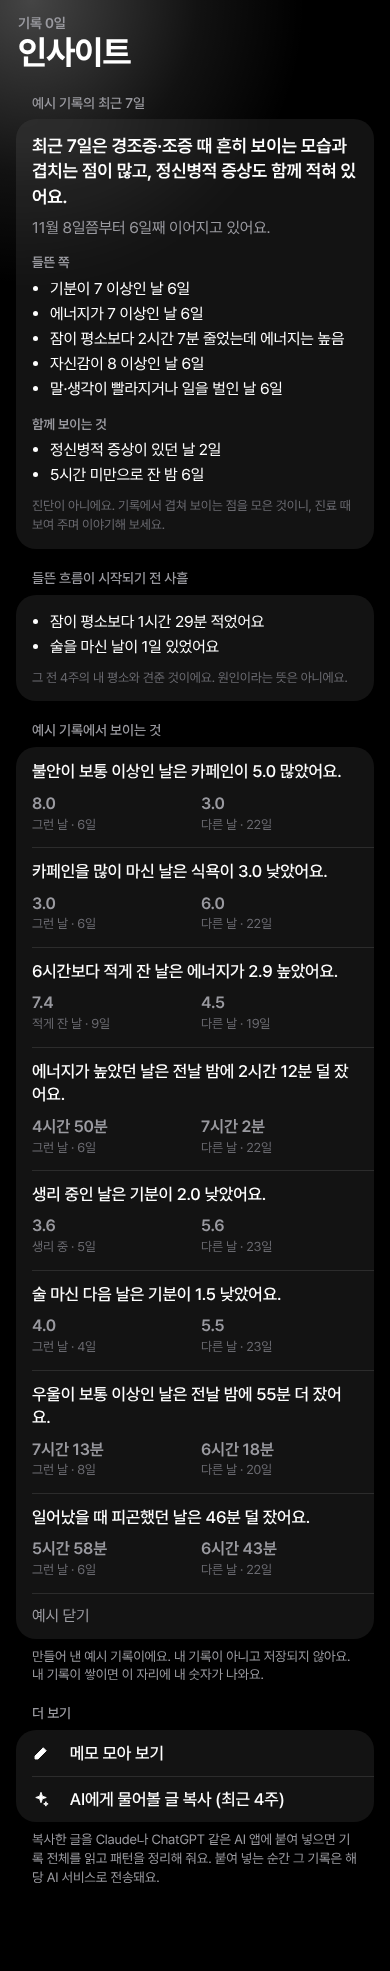
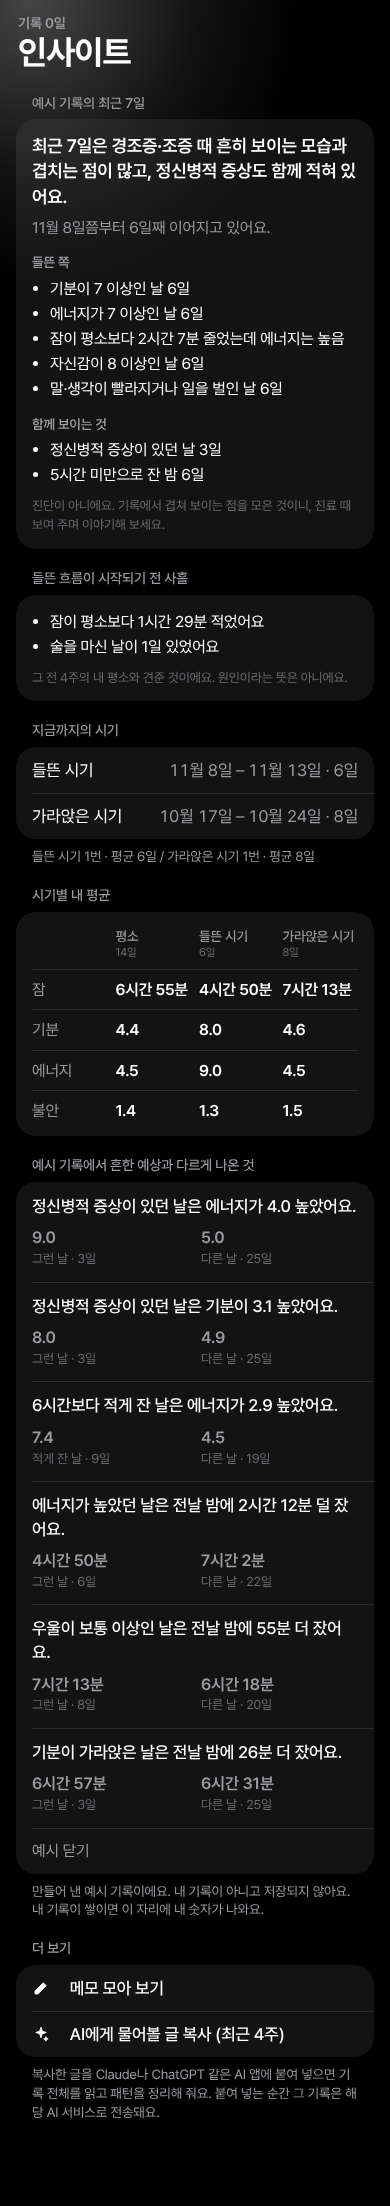
Tide: insights drop generic findings in favour of the person's own history
Comparisons that only restate what is true for most people (more caffeine, less sleep) were presented as findings. Each comparison now carries the commonly expected direction and is shown only when the log goes the other way, or when there is no common expectation. New personal sections: the elevated and low stretches so far with dates and length, the person's own averages in usual, elevated and low phases, and the two weeks before and after each recorded medication change.

Claude-Session: https://claude.ai/code/session_01Du4KAy7crrN67i73oW7iBF

diff --git a/mood/js/analysis.js b/mood/js/analysis.js
@@ -128,7 +128,53 @@ export function recentState(entries = db.entries) {
   return { kind, title, flow, groups, lead };
 }
 
+// ---------- 내 시기들 · 시기별 내 평균 · 약을 바꾼 앞뒤 ----------
+// 지금까지의 들뜬 시기와 가라앉은 시기 (최근 것부터), 그리고 몇 번이었고 평균 며칠 갔는지
+export function episodes(entries = db.entries) {
+  const list = [...runs(entries, upDay).map((r) => ({ ...r, kind: 'high' })), ...runs(entries, downDay).map((r) => ({ ...r, kind: 'low' }))]
+    .map((r) => ({ ...r, days: dayGap(r.start, r.end) + 1 })).sort((a, b) => (a.start < b.start ? 1 : -1));
+  const stat = (kind) => { const l = list.filter((r) => r.kind === kind); return l.length ? { n: l.length, avg: Math.round(avg(l.map((r) => r.days))) } : null; };
+  return { list, high: stat('high'), low: stat('low') };
+}
+
+// 평소 / 들뜬 시기 / 가라앉은 시기에 내 잠·기분·에너지·불안이 각각 어땠는지.
+// { cols: [[이름, 날 수], …], rows: [[항목, [값, …]], …] }. 견줄 묶음이 둘 이상(각 3일 이상)일 때만 나온다.
+export function baseline(entries = db.entries) {
+  const ep = episodes(entries).list, inRun = (e, kind) => ep.some((r) => r.kind === kind && e.date >= r.start && e.date <= r.end);
+  const all = Object.keys(entries).sort().map((k) => entries[k]);
+  const groups = [[T('평소'), all.filter((e) => !inRun(e, 'high') && !inRun(e, 'low'))], [T('들뜬 시기'), all.filter((e) => inRun(e, 'high'))], [T('가라앉은 시기'), all.filter((e) => inRun(e, 'low'))]]
+    .filter(([, list]) => list.length >= 3);
+  if (groups.length < 2) return null;
+  const cell = (list, key, fmt) => { const v = list.map((e) => e[key]).filter((x) => x != null); return v.length ? fmt(avg(v)) : '–'; };
+  const dur = (m) => durText(Math.round(m)), num = (x) => x.toFixed(1);
+  return {
+    cols: groups.map(([name, list]) => [name, list.length]),
+    rows: [[T('잠'), 'sleepMin', dur], [T('기분'), 'mood', num], [T('에너지'), 'energy', num], [T('불안'), 'anx', num]].map(([name, key, fmt]) => [name, groups.map(([, list]) => cell(list, key, fmt))]),
+  };
+}
+
+// 약을 바꾼 날(진료 화면에 적어 둔 것)의 앞 2주와 뒤 2주. 앞뒤로 각각 4일 이상 적었을 때만 나온다. (최근 것부터)
+// [{ date, text, after: 뒤쪽에 적은 날 수, rows: [[항목, 앞, 뒤], …] }]
+export function medChanges() {
+  const t = today(), log = (db.clinic && db.clinic.log) || [];
+  const pick = (from, to) => Object.keys(db.entries).filter((k) => k >= from && k <= to).map((k) => db.entries[k]);
+  const dur = (m) => durText(Math.round(m)), num = (x) => x.toFixed(1);
+  const cell = (list, key, fmt) => { const v = list.map((e) => e[key]).filter((x) => x != null); return v.length ? fmt(avg(v)) : '–'; };
+  const count = (list, test) => F('{0}일 중 {1}일', list.length, list.filter(test).length);
+  return log.filter((x) => x.kind === 'med' && x.date <= t).map((x) => {
+    const b = pick(addDays(x.date, -14), addDays(x.date, -1)), last = addDays(x.date, 13), a = pick(x.date, last < t ? last : t);
+    if (b.length < 4 || a.length < 4) return null;
+    return {
+      date: x.date, text: x.text, after: a.length,
+      rows: [[T('기분'), cell(b, 'mood', num), cell(a, 'mood', num)], [T('에너지'), cell(b, 'energy', num), cell(a, 'energy', num)], [T('잠'), cell(b, 'sleepMin', dur), cell(a, 'sleepMin', dur)],
+        [T('우울이 보통 이상'), count(b, (e) => e.dep >= 2), count(a, (e) => e.dep >= 2)], [T('불안이 보통 이상'), count(b, (e) => e.anx >= 2), count(a, (e) => e.anx >= 2)]],
+    };
+  }).filter(Boolean).reverse();
+}
+
 // 인사이트: 두 묶음의 평균을 견준 관찰들. 차이가 큰 것부터 나온다.
+// 누구에게나 흔한 쪽으로 나온 것(카페인을 많이 마시면 덜 잔다 등)은 새로운 정보가 아니라서 뺀다:
+// say의 세 번째 값이 "흔히 예상되는 쪽"(0 = 앞 문장, 1 = 뒤 문장)이고, 기록이 그 반대로 나왔을 때만 넣는다. 예상이 따로 없는 것은 그대로 넣는다.
 //   { text: 한 줄 결론, a: [이름, 값, 날 수], b: [이름, 값, 날 수] }
 // 차이가 뚜렷할 때만 넣는다. entries를 주면 그 기록으로 계산한다 (예시 기록 미리 보기).
 // 약에 관한 비교는 내 약 기록을 보기 때문에 내 기록일 때만 넣는다.
@@ -142,7 +188,7 @@ export function insights(entries = db.entries) {
   const compare = (key, a, b, labels, { min = 3, gap, fmt, unit }, say) => {
     if (a.length < min || b.length < min) return;
     const x = mean(a, key), y = mean(b, key), d = Math.abs(x - y);
-    if (d < gap) return;
+    if (d < gap || say[2] === (x < y ? 0 : 1)) return;
     out.push({ text: F(say[x < y ? 0 : 1], fmt(d)), a: [labels[0], fmt(x), a.length], b: [labels[1], fmt(y), b.length], weight: d / unit });
   };
   const sleep = { gap: 20, fmt: dur, unit: 60 }, score = { gap: 0.8, fmt: num, unit: 1 }, days = [T('그런 날'), T('다른 날')];
@@ -153,36 +199,36 @@ export function insights(entries = db.entries) {
 
   // 잠과 에너지·기분
   compare('energy', slE.filter((e) => e.sleepMin < 360), slE.filter((e) => e.sleepMin >= 360), [T('적게 잔 날'), T('다른 날')], score,
-    ['6시간보다 적게 잔 날은 에너지가 {0} 낮았어요.', '6시간보다 적게 잔 날은 에너지가 {0} 높았어요.']);
+    ['6시간보다 적게 잔 날은 에너지가 {0} 낮았어요.', '6시간보다 적게 잔 날은 에너지가 {0} 높았어요.', 0]);
   compare('sleepMin', slE.filter((e) => e.energy >= 7), slE.filter((e) => e.energy < 7), days, sleep,
-    ['에너지가 높았던 날은 전날 밤에 {0} 덜 잤어요.', '에너지가 높았던 날은 전날 밤에 {0} 더 잤어요.']);
+    ['에너지가 높았던 날은 전날 밤에 {0} 덜 잤어요.', '에너지가 높았던 날은 전날 밤에 {0} 더 잤어요.', 1]);
   compare('sleepMin', slM.filter((e) => e.mood <= 3), slM.filter((e) => e.mood > 3), days, sleep,
-    ['기분이 가라앉은 날은 전날 밤에 {0} 덜 잤어요.', '기분이 가라앉은 날은 전날 밤에 {0} 더 잤어요.']);
+    ['기분이 가라앉은 날은 전날 밤에 {0} 덜 잤어요.', '기분이 가라앉은 날은 전날 밤에 {0} 더 잤어요.', 0]);
   compare('sleepMin', sl.filter((e) => e.tired), sl.filter((e) => !e.tired), days, sleep,
-    ['일어났을 때 피곤했던 날은 {0} 덜 잤어요.', '일어났을 때 피곤했던 날은 {0} 더 잤어요.']);
+    ['일어났을 때 피곤했던 날은 {0} 덜 잤어요.', '일어났을 때 피곤했던 날은 {0} 더 잤어요.', 0]);
   // 약
   if (mine && db.meds.length) {
     compare('mood', withMood.filter((e) => !medsFor(e.date).length), withMood.filter((e) => medsFor(e.date).length), [T('안 먹은 날'), T('먹은 날')], score,
-      ['약을 안 먹은 날은 기분이 {0} 낮았어요.', '약을 안 먹은 날은 기분이 {0} 높았어요.']);
+      ['약을 안 먹은 날은 기분이 {0} 낮았어요.', '약을 안 먹은 날은 기분이 {0} 높았어요.', 0]);
     compare('sleepMin', sl.filter(aided), sl.filter((e) => !aided(e)), [T('먹은 날'), T('안 먹은 날')], { ...sleep, min: 2 },
-      ['안정제·수면제를 먹은 날 밤에는 {0} 덜 잤어요.', '안정제·수면제를 먹은 날 밤에는 {0} 더 잤어요.']);
+      ['안정제·수면제를 먹은 날 밤에는 {0} 덜 잤어요.', '안정제·수면제를 먹은 날 밤에는 {0} 더 잤어요.', 1]);
   }
   // 카페인 · 술 · 운동 · 생리
   const caf = all.filter((e) => e.caffeine != null && night(e) && night(e).sleepMin != null);
   compare('sleepMin', caf.filter((e) => e.caffeine >= 7).map(night), caf.filter((e) => e.caffeine < 7).map(night), days, sleep,
-    ['카페인을 많이 마신 날 밤에는 {0} 덜 잤어요.', '카페인을 많이 마신 날 밤에는 {0} 더 잤어요.']);
+    ['카페인을 많이 마신 날 밤에는 {0} 덜 잤어요.', '카페인을 많이 마신 날 밤에는 {0} 더 잤어요.', 0]);
   const ap = all.filter((e) => e.caffeine != null && e.appetite != null);
   compare('appetite', ap.filter((e) => e.caffeine >= 7), ap.filter((e) => e.caffeine < 7), days, { ...score, gap: 1 },
-    ['카페인을 많이 마신 날은 식욕이 {0} 낮았어요.', '카페인을 많이 마신 날은 식욕이 {0} 높았어요.']);
+    ['카페인을 많이 마신 날은 식욕이 {0} 낮았어요.', '카페인을 많이 마신 날은 식욕이 {0} 높았어요.', 0]);
   const tagged = (k) => (e) => !!(e.tags && e.tags[k]);
   const nextMood = all.filter((e) => night(e) && night(e).mood != null);
   compare('mood', nextMood.filter(tagged('alcohol')).map(night), nextMood.filter((e) => !tagged('alcohol')(e)).map(night), days, score,
-    ['술 마신 다음 날은 기분이 {0} 낮았어요.', '술 마신 다음 날은 기분이 {0} 높았어요.']);
+    ['술 마신 다음 날은 기분이 {0} 낮았어요.', '술 마신 다음 날은 기분이 {0} 높았어요.', 0]);
   const nextSleep = all.filter((e) => night(e) && night(e).sleepMin != null);
   compare('sleepMin', nextSleep.filter(tagged('exercise')).map(night), nextSleep.filter((e) => !tagged('exercise')(e)).map(night), days, sleep,
-    ['운동한 날 밤에는 {0} 덜 잤어요.', '운동한 날 밤에는 {0} 더 잤어요.']);
+    ['운동한 날 밤에는 {0} 덜 잤어요.', '운동한 날 밤에는 {0} 더 잤어요.', 1]);
   compare('mood', withMood.filter((e) => e.period), withMood.filter((e) => !e.period), [T('생리 중'), T('다른 날')], score,
-    ['생리 중인 날은 기분이 {0} 낮았어요.', '생리 중인 날은 기분이 {0} 높았어요.']);
+    ['생리 중인 날은 기분이 {0} 낮았어요.', '생리 중인 날은 기분이 {0} 높았어요.', 0]);
   // 기분이 가장 낮은 요일 (요일마다 2일 이상 적었을 때)
   const byDay = WD().map((name, d) => [name, withMood.filter((e) => parse(e.date).getDay() === d)]).filter(([, list]) => list.length >= 2);
   if (byDay.length >= 4) {
@@ -195,15 +241,15 @@ export function insights(entries = db.entries) {
   const split = (list, test) => [list.filter(test), list.filter((e) => !test(e))];
   const isDep = (e) => e.dep >= 2, isAnx = (e) => e.anx >= 2, isPsy = (e) => e.psy >= 1, isSi = (e) => e.si >= 1;
   compare('sleepMin', ...split(sl.filter(has('dep')), isDep), days, sleep, ['우울이 보통 이상인 날은 전날 밤에 {0} 덜 잤어요.', '우울이 보통 이상인 날은 전날 밤에 {0} 더 잤어요.']);
-  compare('sleepMin', ...split(sl.filter(has('anx')), isAnx), days, sleep, ['불안이 보통 이상인 날은 전날 밤에 {0} 덜 잤어요.', '불안이 보통 이상인 날은 전날 밤에 {0} 더 잤어요.']);
-  compare('sleepMin', ...split(sl, isPsy), days, sleep, ['정신병적 증상이 있던 날은 전날 밤에 {0} 덜 잤어요.', '정신병적 증상이 있던 날은 전날 밤에 {0} 더 잤어요.']);
-  compare('sleepMin', ...split(sl.filter(has('si')), isSi), days, sleep, ['죽고 싶은 생각이 있던 날은 전날 밤에 {0} 덜 잤어요.', '죽고 싶은 생각이 있던 날은 전날 밤에 {0} 더 잤어요.']);
+  compare('sleepMin', ...split(sl.filter(has('anx')), isAnx), days, sleep, ['불안이 보통 이상인 날은 전날 밤에 {0} 덜 잤어요.', '불안이 보통 이상인 날은 전날 밤에 {0} 더 잤어요.', 0]);
+  compare('sleepMin', ...split(sl, isPsy), days, sleep, ['정신병적 증상이 있던 날은 전날 밤에 {0} 덜 잤어요.', '정신병적 증상이 있던 날은 전날 밤에 {0} 더 잤어요.', 0]);
+  compare('sleepMin', ...split(sl.filter(has('si')), isSi), days, sleep, ['죽고 싶은 생각이 있던 날은 전날 밤에 {0} 덜 잤어요.', '죽고 싶은 생각이 있던 날은 전날 밤에 {0} 더 잤어요.', 0]);
   const both = (a, b) => all.filter((e) => e[a] != null && e[b] != null);
   compare('energy', ...split(all.filter(has('energy')), isPsy), days, score, ['정신병적 증상이 있던 날은 에너지가 {0} 낮았어요.', '정신병적 증상이 있던 날은 에너지가 {0} 높았어요.']);
   compare('mood', ...split(withMood, isPsy), days, score, ['정신병적 증상이 있던 날은 기분이 {0} 낮았어요.', '정신병적 증상이 있던 날은 기분이 {0} 높았어요.']);
-  compare('dep', ...split(both('anx', 'dep'), isAnx), days, level, ['불안이 보통 이상인 날은 우울이 {0}단계 낮았어요.', '불안이 보통 이상인 날은 우울이 {0}단계 높았어요.']);
-  compare('anx', ...split(all.filter(has('anx')), isPsy), days, level, ['정신병적 증상이 있던 날은 불안이 {0}단계 낮았어요.', '정신병적 증상이 있던 날은 불안이 {0}단계 높았어요.']);
-  compare('caffeine', ...split(both('anx', 'caffeine'), isAnx), days, { ...score, gap: 1 }, ['불안이 보통 이상인 날은 카페인이 {0} 적었어요.', '불안이 보통 이상인 날은 카페인이 {0} 많았어요.']);
+  compare('dep', ...split(both('anx', 'dep'), isAnx), days, level, ['불안이 보통 이상인 날은 우울이 {0}단계 낮았어요.', '불안이 보통 이상인 날은 우울이 {0}단계 높았어요.', 1]);
+  compare('anx', ...split(all.filter(has('anx')), isPsy), days, level, ['정신병적 증상이 있던 날은 불안이 {0}단계 낮았어요.', '정신병적 증상이 있던 날은 불안이 {0}단계 높았어요.', 1]);
+  compare('caffeine', ...split(both('anx', 'caffeine'), isAnx), days, { ...score, gap: 1 }, ['불안이 보통 이상인 날은 카페인이 {0} 적었어요.', '불안이 보통 이상인 날은 카페인이 {0} 많았어요.', 1]);
   // 차이가 큰 것부터 여덟 개까지만 (많으면 다 비슷해 보인다)
   return out.sort((p, q) => q.weight - p.weight).slice(0, 8);
 }

diff --git a/mood/js/views/insight.js b/mood/js/views/insight.js
@@ -1,7 +1,9 @@
-// 인사이트 화면: 최근 7일을 종합해서 읽은 것, 그 흐름이 시작되기 전 사흘, 기록에서 보이는 비교, 메모·AI로 가는 줄
+// 인사이트 화면: 최근 7일을 종합해서 읽은 것, 그 흐름이 시작되기 전 사흘, 내 시기들, 시기별 내 평균, 약을 바꾼 앞뒤,
+// 흔한 예상과 다르게 나온 비교, 메모·AI로 가는 줄. 누구에게나 해당하는 뻔한 말은 넣지 않는다 (사용자가 지적, 2026-11-13).
 // 기록이 아직 적으면 예시 기록으로 어떤 것이 나오는지 미리 볼 수 있다 (ui.insightDemo).
-import { INSIGHT_MIN_DAYS, insights, recentState } from '../analysis.js';
-import { app } from '../dom.js';
+import { INSIGHT_MIN_DAYS, baseline, episodes, insights, medChanges, recentState } from '../analysis.js';
+import { md, parse } from '../dates.js';
+import { app, esc } from '../dom.js';
 import { F, T } from '../i18n.js';
 import { IC } from '../icons.js';
 import { sampleEntries } from '../sample.js';
@@ -17,7 +19,11 @@ const bullets = (list) => (list.length ? `<ul>${list.map((x) => `<li>${x}</li>`)
 export function viewInsight() {
   const n = Object.keys(db.entries).length, mine = insights();
   const demo = ui.insightDemo && !mine.length, list = demo ? insights(sampleEntries()) : mine;
-  const state = demo ? recentState(sampleEntries()) : recentState();
+  const src = demo ? sampleEntries() : db.entries, state = recentState(src), ep = episodes(src), base = baseline(src), changes = demo ? [] : medChanges();
+  const span = (r) => `${md(parse(r.start))} – ${md(parse(r.end))}`;
+  const epStat = [ep.high && F('들뜬 시기 {0}번 · 평균 {1}일', ep.high.n, ep.high.avg), ep.low && F('가라앉은 시기 {0}번 · 평균 {1}일', ep.low.n, ep.low.avg)].filter(Boolean).join(' / ');
+  // 표 한 줄: 첫 칸은 이름, 나머지는 값
+  const tr = (cells, head) => `<div class="tr${head ? ' th' : ''}">${cells.map((c) => `<span>${c}</span>`).join('')}</div>`;
   const empty = `<div class="li say mut">${n < INSIGHT_MIN_DAYS ? F('기록이 {0}일 이상 쌓이면 패턴을 찾아 보여 드려요. 지금은 {1}일이에요.', INSIGHT_MIN_DAYS, n) : T('아직 뚜렷한 패턴이 보이지 않아요. 기록이 더 쌓이면 다시 살펴볼게요.')}</div>
     <button class="li add" data-act="insightDemo">${IC.spark}&nbsp; ${T('예시로 미리 보기')}</button>`;
   app.innerHTML = `
@@ -30,11 +36,19 @@ export function viewInsight() {
     ${state.lead ? `<div class="sec">${state.lead.title}</div>
     <section class="card state">${bullets(state.lead.points)}${state.lead.past ? `<div class="flow">${state.lead.past}</div>` : ''}
       <p>${T('그 전 4주의 내 평소와 견준 것이에요. 원인이라는 뜻은 아니에요.')}</p></section>` : ''}` : ''}
-    <div class="sec">${demo ? T('예시 기록에서 보이는 것') : T('기록에서 보이는 것')}</div>
-    <section class="card list">${list.length ? list.map(compareRow).join('') : empty}
+    ${ep.list.length ? `<div class="sec">${T('지금까지의 시기')}</div>
+    <section class="card list">${ep.list.slice(0, 6).map((r) => `<div class="li"><span class="lk">${r.kind === 'high' ? T('들뜬 시기') : T('가라앉은 시기')}</span><span class="lv">${span(r)} · ${F('{0}일', r.days)}</span></div>`).join('')}</section>
+    <p class="secnote">${epStat}</p>` : ''}
+    ${base ? `<div class="sec">${T('시기별 내 평균')}</div>
+    <section class="card tbl">${tr(['', ...base.cols.map(([name, days]) => `${name}<small>${F('{0}일', days)}</small>`)], true)}${base.rows.map(([name, cells]) => tr([name, ...cells])).join('')}</section>` : ''}
+    ${changes.map((c) => `<div class="sec">${F('약을 바꾼 뒤 · {0}', md(parse(c.date)))}</div>
+    <section class="card tbl">${c.text ? `<div class="tbl-t">${esc(c.text)}</div>` : ''}${tr(['', T('앞 2주'), F('뒤 {0}일', c.after)], true)}${c.rows.map((r) => tr(r)).join('')}</section>`).join('')}
+    ${changes.length ? `<p class="secnote">${T('약 때문이라는 뜻은 아니에요. 바꾼 날 앞뒤로 기록이 어땠는지만 나란히 놓은 거예요.')}</p>` : ''}
+    <div class="sec">${demo ? T('예시 기록에서 흔한 예상과 다르게 나온 것') : T('흔한 예상과 다르게 나온 것')}</div>
+    <section class="card list">${list.length ? list.map(compareRow).join('') : n < INSIGHT_MIN_DAYS && !demo ? empty : `<div class="li say mut">${T('아직 없어요. 흔한 예상대로 나온 것은 새로운 정보가 아니라서 여기에 넣지 않아요.')}</div>`}
       ${demo ? `<button class="li add dim" data-act="insightDemo">${T('예시 닫기')}</button>` : ''}</section>
     ${demo ? `<p class="secnote">${T('만들어 낸 예시 기록이에요. 내 기록이 아니고 저장되지 않아요. 내 기록이 쌓이면 이 자리에 내 숫자가 나와요.')}</p>`
-    : list.length ? `<p class="secnote">${T('차이가 큰 것부터 나와요. 내 기록의 평균을 견준 것이고, 원인이나 진단을 뜻하지 않아요.')}</p>` : ''}
+    : list.length ? `<p class="secnote">${T('“카페인을 많이 마시면 덜 잔다”처럼 누구에게나 흔한 것은 뺐어요. 내 기록의 평균을 견준 것이고, 원인이나 진단을 뜻하지 않아요.')}</p>` : ''}
     <div class="sec">${T('더 보기')}</div>
     <section class="card list">
       <button class="li add" data-act="notes">${IC.note}&nbsp; ${T('메모 모아 보기')}</button>

diff --git a/mood/js/i18n.js b/mood/js/i18n.js
@@ -146,12 +146,28 @@ const DICT = {
   '생리 중인 날은 기분이 {0} 낮았어요.': 'On period days, mood was {0} lower.',
   '생리 중인 날은 기분이 {0} 높았어요.': 'On period days, mood was {0} higher.',
   '기분이 가장 낮은 요일은 {0}이에요.': 'Mood is lowest on {0}.',
-  '차이가 큰 것부터 나와요. 내 기록의 평균을 견준 것이고, 원인이나 진단을 뜻하지 않아요.': 'Largest differences come first. These compare averages from your log and do not indicate a cause or a diagnosis.',
   '더 보기': 'More',
   'AI에게 물어볼 글 복사 (최근 4주)': 'Copy text to ask an AI (last 4 weeks)',
   '인사이트': 'Insights',
-  '기록에서 보이는 것': 'What your log shows',
   '기록 항목': 'Items to log',
+  '지금까지의 시기': 'Stretches so far',
+  '들뜬 시기': 'Elevated',
+  '가라앉은 시기': 'Low',
+  '평소': 'Usual',
+  '잠': 'Sleep',
+  '들뜬 시기 {0}번 · 평균 {1}일': '{0} elevated stretches · {1} days on average',
+  '가라앉은 시기 {0}번 · 평균 {1}일': '{0} low stretches · {1} days on average',
+  '시기별 내 평균': 'My averages by phase',
+  '약을 바꾼 뒤 · {0}': 'After a medication change · {0}',
+  '앞 2주': '2 weeks before',
+  '뒤 {0}일': '{0} days after',
+  '우울이 보통 이상': 'Depression moderate+',
+  '불안이 보통 이상': 'Anxiety moderate+',
+  '약 때문이라는 뜻은 아니에요. 바꾼 날 앞뒤로 기록이 어땠는지만 나란히 놓은 거예요.': 'This does not mean the medication caused it. It only sets the log before and after the change side by side.',
+  '흔한 예상과 다르게 나온 것': 'Where your log differs from the usual expectation',
+  '예시 기록에서 흔한 예상과 다르게 나온 것': 'Where the example log differs from the usual expectation',
+  '아직 없어요. 흔한 예상대로 나온 것은 새로운 정보가 아니라서 여기에 넣지 않아요.': 'Nothing yet. Findings that match the usual expectation are not new information, so they are left out.',
+  '“카페인을 많이 마시면 덜 잔다”처럼 누구에게나 흔한 것은 뺐어요. 내 기록의 평균을 견준 것이고, 원인이나 진단을 뜻하지 않아요.': 'Things that are true for most people (“more caffeine, less sleep”) are left out. These compare averages from your log and do not indicate a cause or a diagnosis.',
   '정신병적 증상': 'Psychotic symptoms',
   '환청': 'Hearing voices',
   '헛것이 보임': 'Seeing things',
@@ -260,7 +276,6 @@ const DICT = {
   '기록이 {0}일 이상 쌓이면 패턴을 찾아 보여 드려요. 지금은 {1}일이에요.': 'Patterns appear once you have {0} or more days logged. You have {1} so far.',
   '예시로 미리 보기': 'Preview with an example',
   '예시 닫기': 'Close the example',
-  '예시 기록에서 보이는 것': 'What an example log shows',
   '만들어 낸 예시 기록이에요. 내 기록이 아니고 저장되지 않아요. 내 기록이 쌓이면 이 자리에 내 숫자가 나와요.': 'This is a made-up example log. It is not yours and is not saved. Your own numbers appear here once you have logged enough.',
   '아직 뚜렷한 패턴이 보이지 않아요. 기록이 더 쌓이면 다시 살펴볼게요.': 'No clear pattern yet. This will update as you log more.',
   '복사한 글을 Claude나 ChatGPT 같은 AI 앱에 붙여 넣으면 기록 전체를 읽고 패턴을 정리해 줘요. 붙여 넣는 순간 그 기록은 해당 AI 서비스로 전송돼요.': 'Paste the copied text into an AI app such as Claude or ChatGPT and it can read the whole log and summarise patterns. Once pasted, that log is sent to that AI service.',

diff --git a/mood/app.css b/mood/app.css
@@ -393,6 +393,16 @@ input[type=date] { border: 0; outline: none; background: var(--card2); color: va
 .state ul { margin: 10px 0 0; padding-left: 18px; color: var(--text); font-size: calc(14px * var(--fs, 1.12)); line-height: 1.6; }
 .state p { margin: 10px 0 0; color: var(--faint); font-size: calc(11.5px * var(--fs, 1.12)); line-height: 1.45; }
 
+/* 인사이트: 작은 표 (시기별 내 평균, 약을 바꾼 앞뒤). 첫 칸은 이름, 나머지는 값 */
+.tbl { padding: 6px 16px; }
+.tbl-t { padding: 8px 0 4px; font-weight: 600; overflow-wrap: anywhere; }
+.tr { display: grid; grid-auto-flow: column; grid-auto-columns: 1fr; gap: 8px; align-items: baseline; padding: 9px 0; font-size: calc(14px * var(--fs, 1.12)); }
+.tr + .tr { border-top: 0.5px solid var(--line); }
+.tr span:first-child { color: var(--muted); }
+.tr span + span { font-family: var(--round); font-weight: 600; }
+.tr.th span { font-family: inherit; font-weight: 500; color: var(--muted); font-size: calc(12px * var(--fs, 1.12)); }
+.tr small { display: block; color: var(--faint); font-weight: 400; }
+
 /* 인사이트: 결론 한 줄과 그 근거인 두 평균 */
 .li.cmp { display: block; padding: 13px 16px 14px; }
 .cmp-t { font-size: calc(15px * var(--fs, 1.12)); font-weight: 500; line-height: 1.4; }

diff --git a/mood/tests/smoke.js b/mood/tests/smoke.js
@@ -180,6 +180,7 @@ function seed() {
   check('오늘 화면에는 인사이트 배너를 띄우지 않음', (await page.$$('#app .signal')).length === 0);
   await page.click('[data-tab=insight]');
   const says = await page.$$eval('.li.cmp', (x) => x.map((el) => el.textContent));
+  check('인사이트: 지금까지의 시기와 시기별 내 평균 표가 나옴', (await text('#app')).includes('지금까지의 시기') && (await text('.tbl')).includes('들뜬 시기') && !(await text('#app')).includes('그 전 7일'));
   check('최근 7일 읽기: 언제부터 며칠째인지도 말함', (await text('.state .flow')).includes('일째 이어지고 있어요'));
   check('최근 7일 읽기: 들뜬 날이 이어지면 겹치는 점을 근거와 함께 보여 줌', (await text('.state')).includes('경조증 때 흔히 보이는 모습') && (await text('.state')).includes('에너지가 7 이상인 날') && (await text('.state')).includes('진단이 아니에요'));
   check('인사이트: 두 숫자 비교', says.some((s) => s.includes('에너지가 높았던 날') && s.includes('그런 날') && s.includes('다른 날')), says.join(' / '));

diff --git a/mood/sw.js b/mood/sw.js
@@ -1,7 +1,7 @@
 // 오프라인에서도 열리도록 앱 파일을 저장해 둔다.
 // 인터넷이 될 때는 항상 최신 파일을 먼저 받아오고, 안 될 때만 저장본을 쓴다.
 // 앱 파일을 바꿔서 올릴 때마다 CACHE 숫자를 하나 올린다. js/ 에 파일을 더하면 JS 목록에도 더한다.
-const CACHE = 'tide-v69';
+const CACHE = 'tide-v70';
 const JS = ['main', 'config', 'i18n', 'constants', 'store', 'dates', 'theme', 'icons', 'dom', 'state', 'meds', 'analysis', 'sample', 'files', 'render', 'swipe', 'lock',
   'views/today', 'views/trend', 'views/insight', 'views/record', 'views/settings', 'views/clinic', 'views/notes'];
 const FILES = ['./', 'index.html', 'app.css', 'manifest.webmanifest',

diff --git a/mood/js/config.js b/mood/js/config.js
@@ -2,4 +2,4 @@
 export const KEY = 'tide.v1', OLD_KEY = 'harugyeol.v1';
 
 // 설정 화면 맨 아래에 보이는 번호. 올릴 때마다 sw.js의 CACHE 숫자와 같이 하나 올린다.
-export const VERSION = 69;
+export const VERSION = 70;
